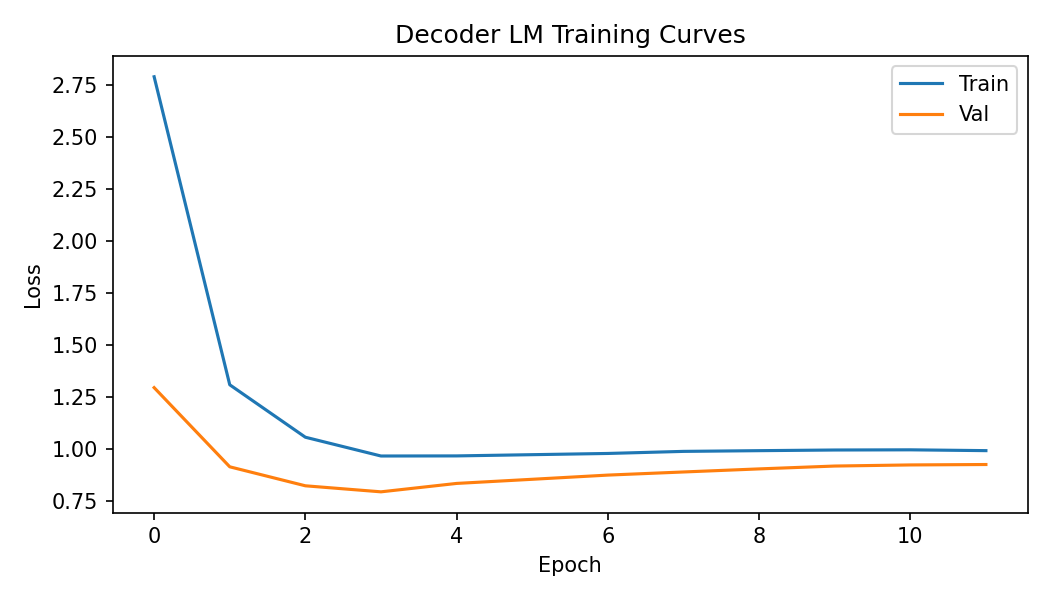
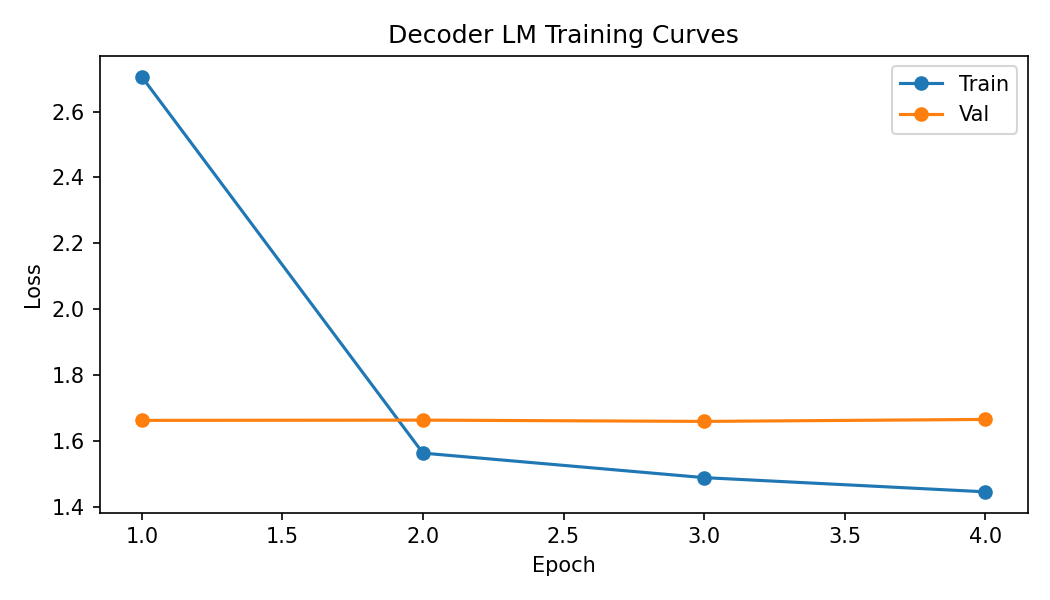
RAG sentiment agent: API rerouting

diff --git a/backend/app/db.py b/backend/app/db.py
@@ -23,12 +23,18 @@ def upsert_reviews(rows: list[dict]) -> int:
     return len(rows)
 
 
+def _to_pgvector(vec: list[float]) -> str:
+    """pgvector RPC params must be passed as a string literal '[v1,v2,...]',
+    not a JSON array (PostgREST won't bind a JSON array to a vector parameter)."""
+    return "[" + ",".join(repr(float(x)) for x in vec) + "]"
+
+
 def match_reviews(query_embedding: list[float], match_count: int = 5) -> list[dict]:
     """Cosine top-k via the match_reviews SQL function (see migrations/0001_init.sql)."""
     client = get_client()
     resp = client.rpc(
         "match_reviews",
-        {"query_embedding": query_embedding, "match_count": match_count},
+        {"query_embedding": _to_pgvector(query_embedding), "match_count": match_count},
     ).execute()
     return resp.data or []
 

diff --git a/backend/README.md b/backend/README.md
@@ -1,0 +1,72 @@
+# Backend — RAG Sentiment Agent (FastAPI + Supabase + OpenRouter)
+
+Production-style RAG service. Retrieval embeddings come from the project's **own
+trained encoder** (128-dim); generation is delegated to an **OpenRouter** LLM;
+vectors live in **Supabase pgvector**.
+
+```
+review ──▶ encoder (128-d vector) ──▶ Supabase match_reviews (cosine top-k) ──▶ OpenRouter LLM ──▶ grounded explanation
+```
+
+## Layout
+
+```
+backend/
+├── app/
+│   ├── config.py       # typed settings from repo-root .env
+│   ├── embeddings.py   # serves the Task-A encoder (singleton)
+│   ├── db.py           # Supabase client + pgvector helpers
+│   ├── llm.py          # OpenRouter chat/completions
+│   ├── rag.py          # orchestration ("tools" layer): embed → retrieve → generate
+│   ├── schemas.py      # request/response models
+│   └── main.py         # FastAPI app + routes
+├── migrations/0001_init.sql   # pgvector table + match_reviews() function
+├── scripts/ingest_corpus.py   # bulk-embed train.csv into Supabase
+└── requirements.txt
+```
+
+## Setup
+
+1. **Fill `.env`** at the repo root (already scaffolded): set `SUPABASE_DB_URL`
+   password and `OPENROUTER_API_KEY`.
+
+2. **Install deps**
+   ```bash
+   pip install -r backend/requirements.txt
+   ```
+
+3. **Create the schema** — paste `backend/migrations/0001_init.sql` into
+   Supabase → SQL Editor and run it.
+
+4. **Ingest the corpus** (embeds with the encoder, inserts vectors)
+   ```bash
+   python -m backend.scripts.ingest_corpus --limit 5000
+   ```
+
+5. **Run the API**
+   ```bash
+   cd backend
+   uvicorn app.main:app --reload --port 8000
+   ```
+   Open http://localhost:8000/docs
+
+## Endpoints
+
+| Method | Path | Purpose |
+|--------|------|---------|
+| GET  | `/health` | liveness + active model |
+| GET  | `/stats`  | number of reviews in the vector DB |
+| POST | `/ingest` | embed + insert a batch of reviews |
+| POST | `/query`  | full RAG: encode → retrieve → grounded explanation |
+
+```bash
+curl -X POST http://localhost:8000/query \
+  -H "Content-Type: application/json" \
+  -d '{"review":"This thing broke after two days, total waste of money.","top_k":5}'
+```
+
+## Security
+
+- `service_role` key is used **server-side only**. Never send it to the frontend.
+- The Vercel frontend talks to this API (and at most uses the Supabase `anon` key).
+- Rotate the `service_role` key once if it was ever shared in plaintext.

diff --git a/README.md b/README.md
@@ -110,9 +110,9 @@ present — so the perplexity gap measures genuine retrieval value.
 
 | Configuration | Perplexity |
 |---------------|-----------|
-| **With retrieved context (RAG)** | **__PPL_RAG__** |
-| Without context (baseline) | __PPL_NORAG__ |
-| **Relative improvement from retrieval** | **__PPL_IMPROV__** |
+| **With retrieved context (RAG)** | **5.31** |
+| Without context (baseline) | 5.97 |
+| **Relative improvement from retrieval** | **11.1 %** |
 
 ![Decoder Training Curves](results/decoder_curves.png)
 
